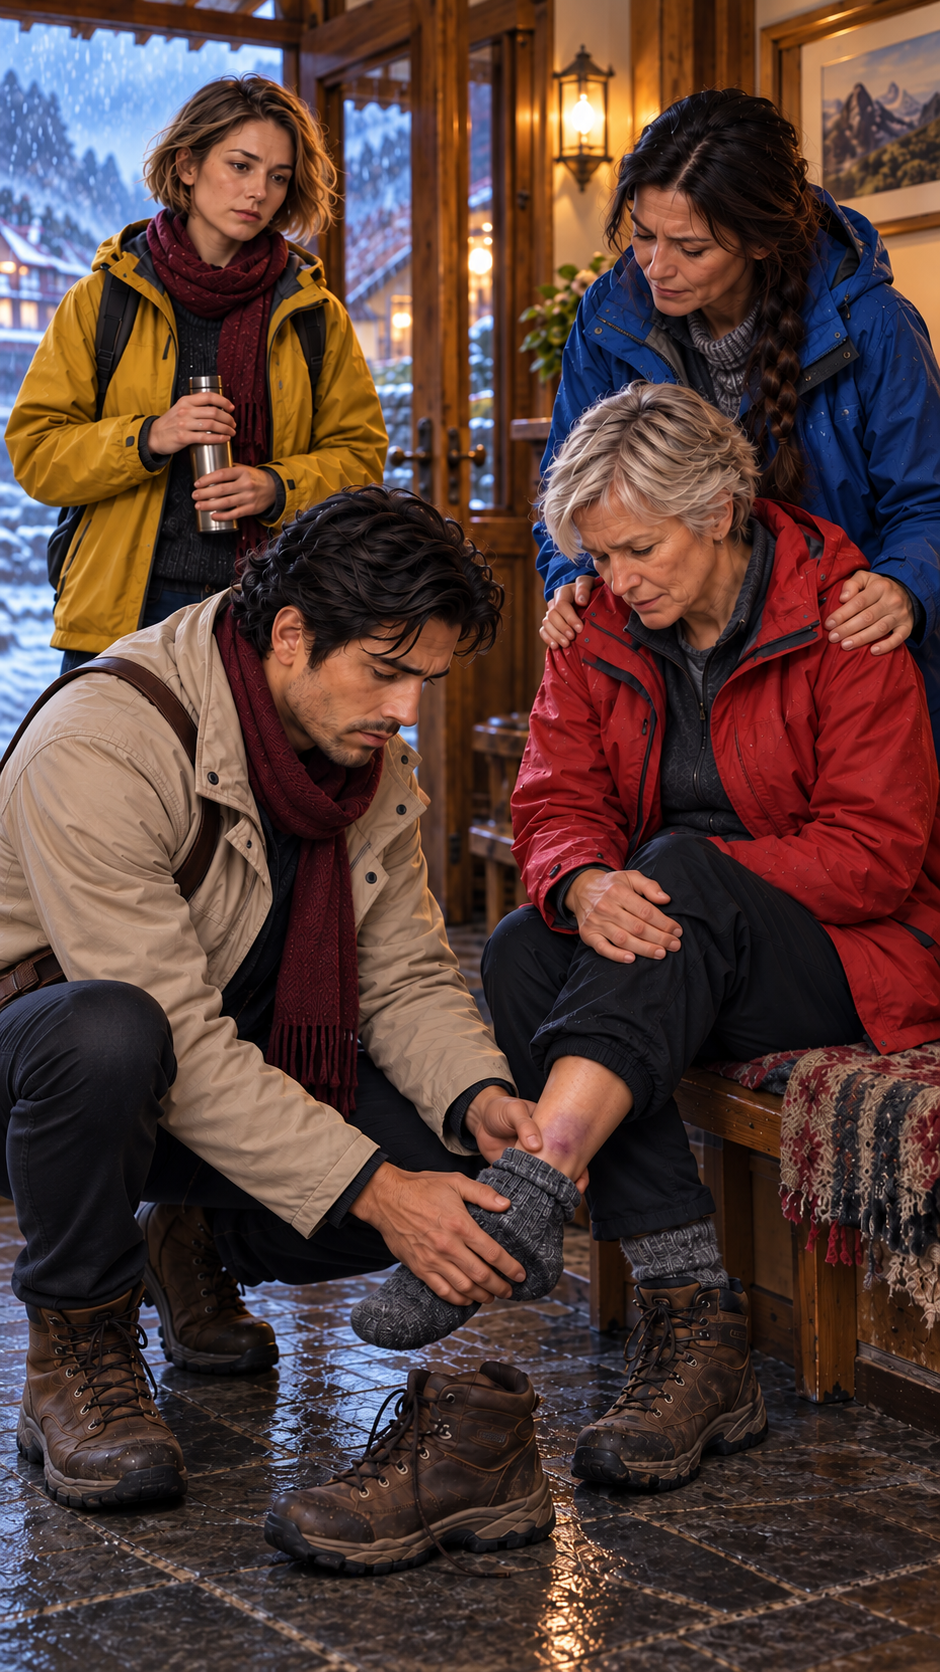
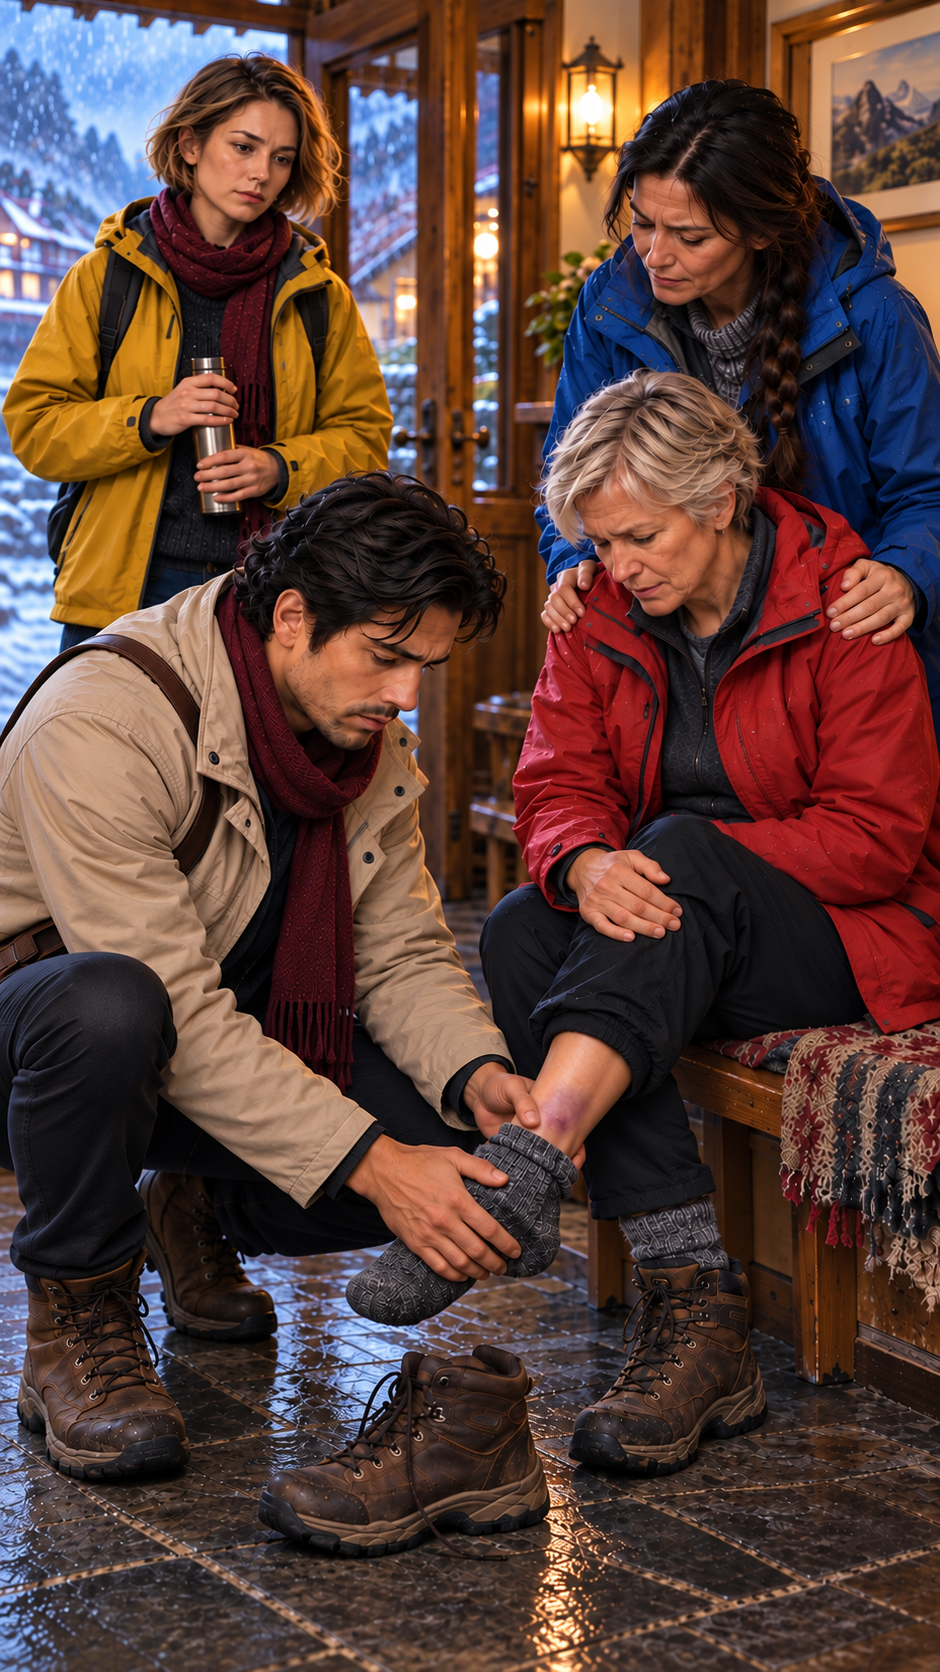
fix(literary): preserve S16 medical action framing

diff --git a/src/literary.css b/src/literary.css
@@ -471,4 +471,5 @@ button:hover,button:focus-visible{background:#765744;border-color:#f3d2a8;transf
 @media(max-width:680px) and (orientation:portrait){
       .literary-picture.is-cg::before{display:none!important}
       .literary-picture.is-cg>img{inset:0!important;width:100%!important;height:100%!important;max-width:none!important;max-height:none!important;object-fit:cover!important;object-position:var(--focus,50% 50%)!important}
+      .literary-picture.is-cg>img[data-asset="s16-guesthouse-help-portrait.png"]{transform:scale(1.12) translateY(-8%);transform-origin:center center}
 }

diff --git a/docs/VISUAL_ACCEPTANCE_FULLSCREEN_REGRESSION_2026-09-24.md b/docs/VISUAL_ACCEPTANCE_FULLSCREEN_REGRESSION_2026-09-24.md
@@ -38,4 +38,4 @@ This session has no available Web route that accepts the local screenshot and re
 
 The CEOS `ceos_bulk_checker_web` route accepted `local_image` items and confirmed receipt of binary PNG pixels. Three bounded reviews covered the 15 current captures (12 event captures plus three S16 pre-cue captures); the evidence records the batch identifiers and receipt counts.
 
-The independent result is `REWORK`, not PASS. S49/360 passed after the asset focal-point correction. S16 timing is independently confirmed: the pre-cue captures contain no medical CG and the cue captures contain it. Remaining findings are partial medical-action visibility in S16/360 and a conflicting S27/360 report; the latter must be reconciled before release acceptance. No push was performed.
+The independent result is `REWORK`, not PASS. S49/360 passed after the asset focal-point correction. S16 timing is independently confirmed: the pre-cue captures contain no medical CG and the cue captures contain it. Final reconciliation on one identical current S27/360 PNG found boards and gloved hands but no unambiguous repair process. S16/360 fails and S16/390 is partial because the medical action remains below/behind the full readable panel. The bounded repair loop is stopped; no further S27 regeneration or push was performed.
